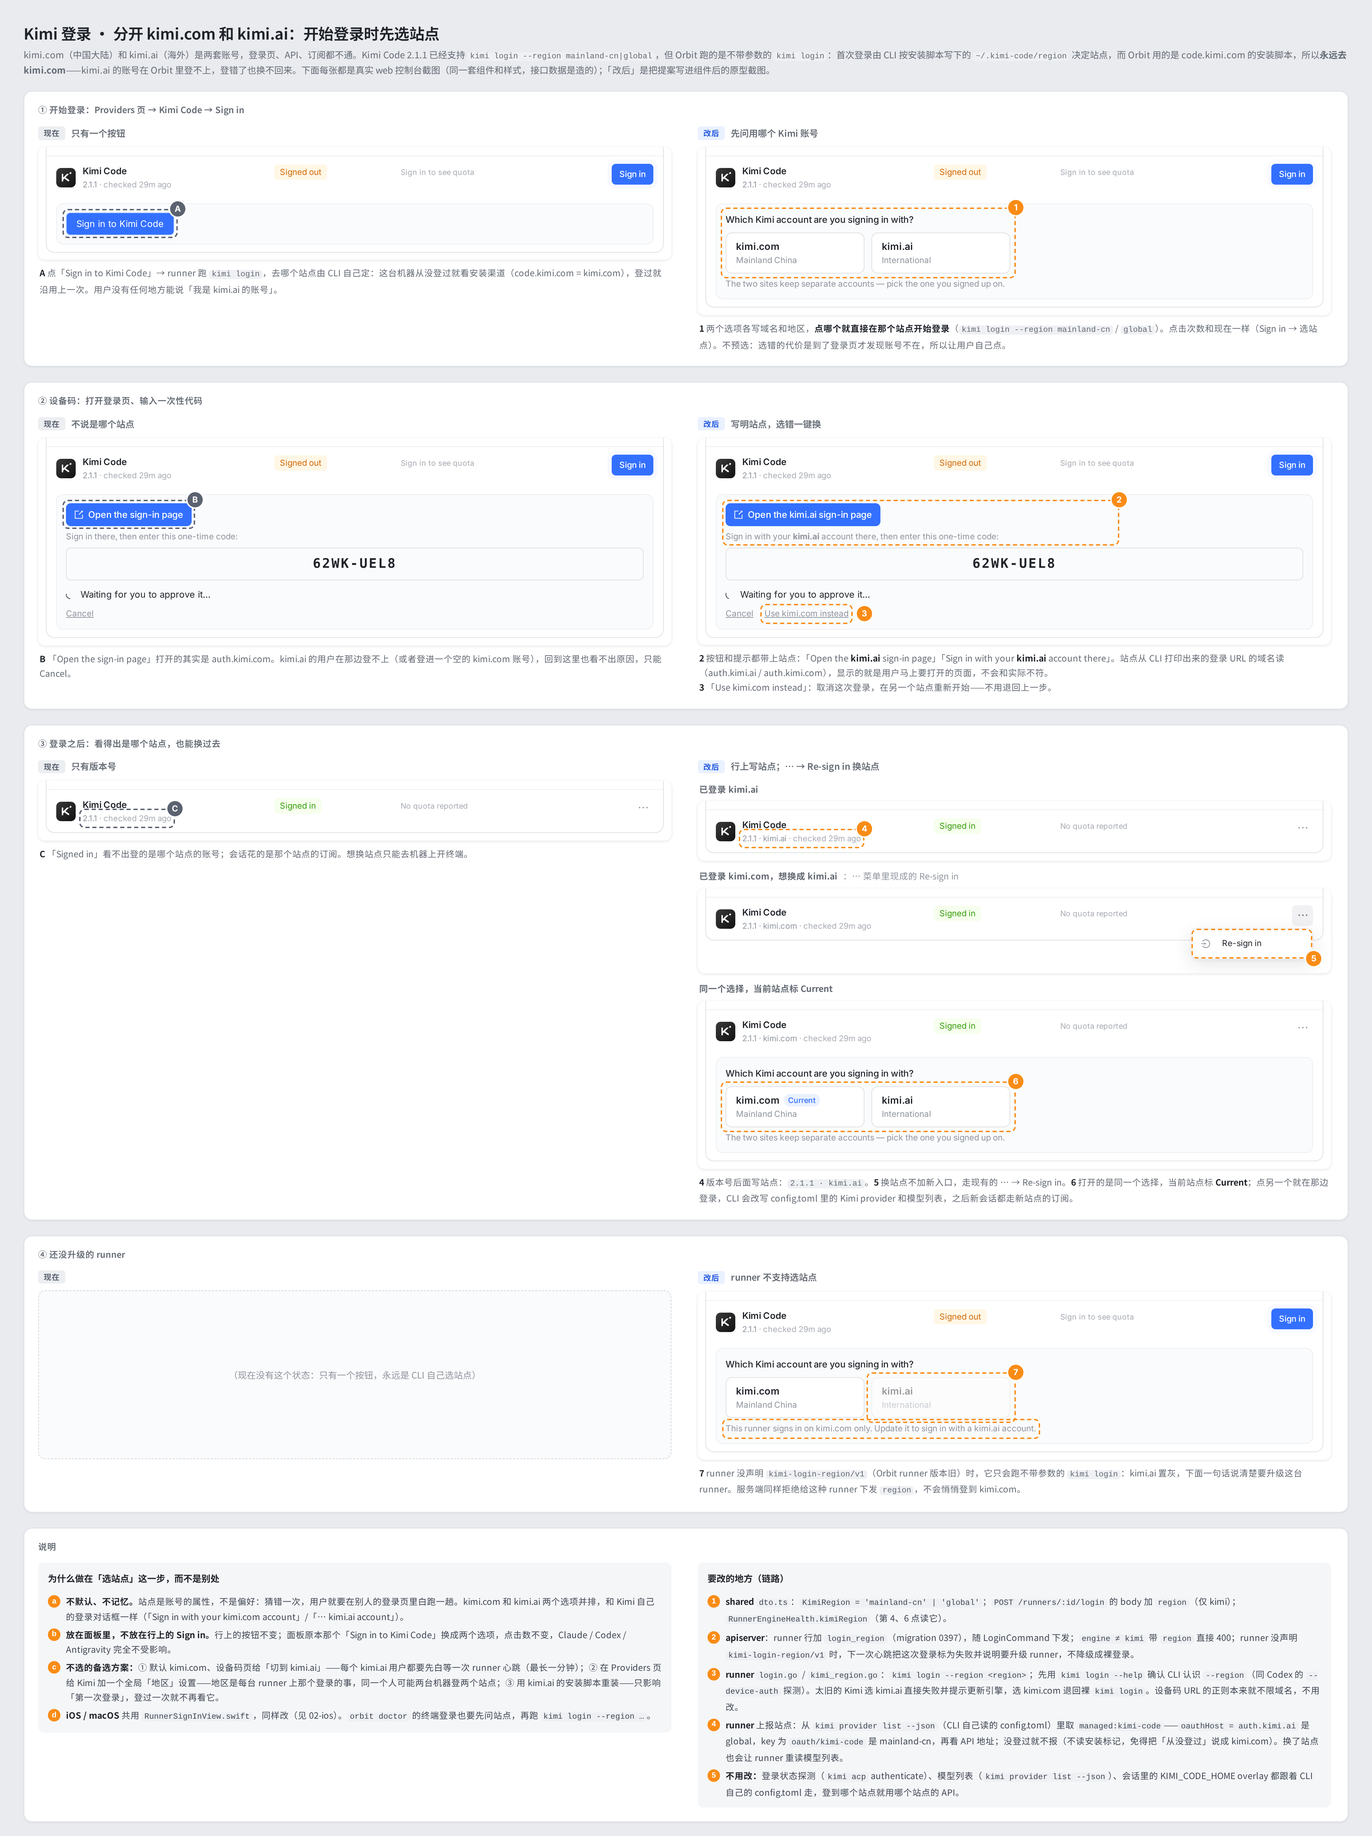
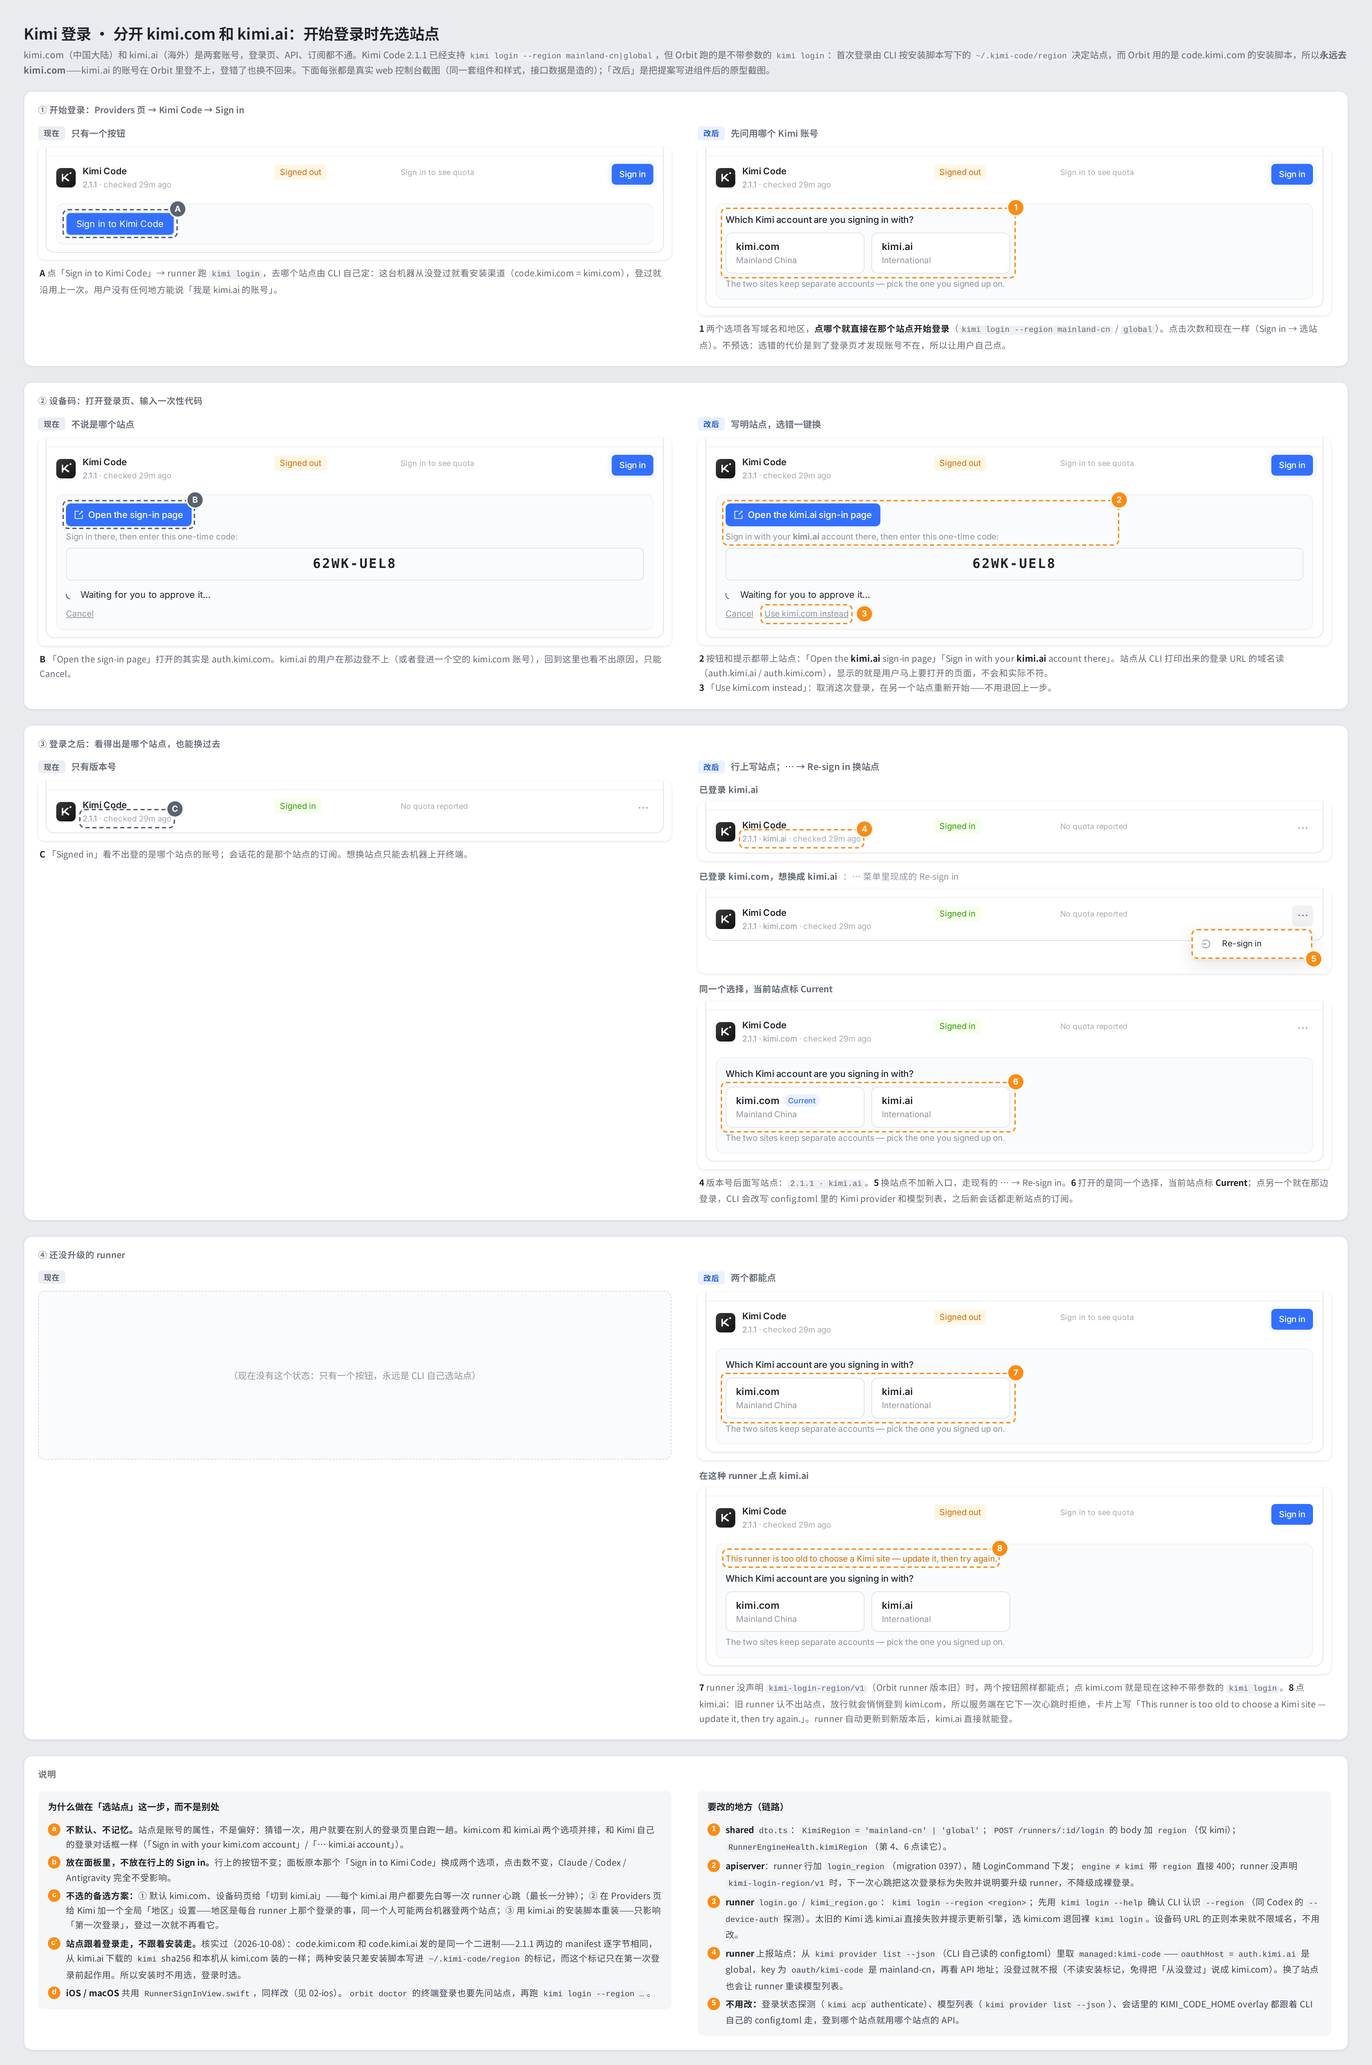
Update 01-web.html and 13 more files

diff --git a/docs/mocks/kimi-login-region/01-web.html b/docs/mocks/kimi-login-region/01-web.html
@@ -127,13 +127,17 @@
         <div class="none zh">（现在没有这个状态：只有一个按钮，永远是 CLI 自己选站点）</div>
       </div>
       <div>
-        <div class="lbl zh"><span class="m-k new">改后</span>runner 不支持选站点</div>
+        <div class="lbl zh"><span class="m-k new">改后</span>两个都能点</div>
         <div class="shot">
           <img src="01i-old-runner.png" alt="">
-          <span class="ring" style="left:243px;top:116px;width:215px;height:73px"></span><span class="n" style="left:447px;top:105px">7</span>
-          <span class="ring" style="left:35px;top:183px;width:458px;height:29px"></span>
+          <span class="ring" style="left:33px;top:116px;width:425px;height:73px"></span><span class="n" style="left:447px;top:105px">7</span>
         </div>
-        <p class="m-cap zh"><b>7</b> runner 没声明 <code>kimi-login-region/v1</code>（Orbit runner 版本旧）时，它只会跑不带参数的 <code>kimi login</code>：kimi.ai 置灰，下面一句话说清楚要升级这台 runner。服务端同样拒绝给这种 runner 下发 <code>region</code>，不会悄悄登到 kimi.com。</p>
+        <div class="step zh"><b>在这种 runner 上点 kimi.ai</b></div>
+        <div class="shot">
+          <img src="01j-old-runner-kimi-ai.png" alt="">
+          <span class="ring" style="left:35px;top:88px;width:400px;height:28px"></span><span class="n" style="left:424px;top:77px">8</span>
+        </div>
+        <p class="m-cap zh"><b>7</b> runner 没声明 <code>kimi-login-region/v1</code>（Orbit runner 版本旧）时，两个按钮照样都能点；点 kimi.com 就是现在这种不带参数的 <code>kimi login</code>。<b>8</b> 点 kimi.ai：旧 runner 认不出站点，放行就会悄悄登到 kimi.com，所以服务端在它下一次心跳时拒绝，卡片上写「This runner is too old to choose a Kimi site — update it, then try again.」。runner 自动更新到新版本后，kimi.ai 直接就能登。</p>
       </div>
     </div>
   </div>
@@ -146,6 +150,7 @@
         <li><span class="m-n">a</span><span><b>不默认、不记忆。</b>站点是账号的属性，不是偏好：猜错一次，用户就要在别人的登录页里白跑一趟。kimi.com 和 kimi.ai 两个选项并排，和 Kimi 自己的登录对话框一样（「Sign in with your kimi.com account」/「… kimi.ai account」）。</span></li>
         <li><span class="m-n">b</span><span><b>放在面板里，不放在行上的 Sign in。</b>行上的按钮不变；面板原本那个「Sign in to Kimi Code」换成两个选项，点击数不变，Claude / Codex / Antigravity 完全不受影响。</span></li>
         <li><span class="m-n">c</span><span><b>不选的备选方案：</b>① 默认 kimi.com、设备码页给「切到 kimi.ai」——每个 kimi.ai 用户都要先白等一次 runner 心跳（最长一分钟）；② 在 Providers 页给 Kimi 加一个全局「地区」设置——地区是每台 runner 上那个登录的事，同一个人可能两台机器登两个站点；③ 用 kimi.ai 的安装脚本重装——只影响「第一次登录」，登过一次就不再看它。</span></li>
+        <li><span class="m-n">c′</span><span><b>站点跟着登录走，不跟着安装走。</b>核实过（2026-10-08）：code.kimi.com 和 code.kimi.ai 发的是同一个二进制——2.1.1 两边的 manifest 逐字节相同，从 kimi.ai 下载的 <code>kimi</code> sha256 和本机从 kimi.com 装的一样；两种安装只差安装脚本写进 <code>~/.kimi-code/region</code> 的标记，而这个标记只在第一次登录前起作用。所以安装时不用选，登录时选。</span></li>
         <li><span class="m-n">d</span><span><b>iOS / macOS</b> 共用 <code>RunnerSignInView.swift</code>，同样改（见 02-ios）。<code>orbit doctor</code> 的终端登录也要先问站点，再跑 <code>kimi login --region …</code>。</span></li>
       </ul>
       <ul class="m-notes zh">

diff --git a/src/web/src/components/RunnerSignIn.tsx b/src/web/src/components/RunnerSignIn.tsx
@@ -164,6 +164,10 @@ export function RunnerSignIn({
   });
   const choosesSite = !!kimiRunner.data?.capabilities?.includes(KIMI_LOGIN_REGION_V1);
   const currentSite = kimiRunner.data?.engines?.find((e) => e.engine === 'kimi')?.kimiRegion;
+  // Both sites can always be pressed. A runner too old to be told a site signs in where its CLI
+  // decides — kimi.com, on an install Orbit made — so kimi.com goes to it unnamed; kimi.ai is named
+  // either way, and such a runner is refused it in words that say to update it (RunnerApiController).
+  const kimiSiteToName = (region: KimiRegion) => (choosesSite || region === 'global' ? region : undefined);
   const [code, setCode] = useState('');
   // Set once a pasted code is on its way to the runner — see `verifying` below.
   const [sent, setSent] = useState(false);
@@ -434,10 +438,10 @@ export function RunnerSignIn({
         </div>
         {/* The wrong site is the one mistake the user can't see until they are on its page: their
             account isn't there. Starting over on the other one is a single press. */}
-        {site && choosesSite ? (
+        {site ? (
           <div className="rsi-links">
             {cancelLink}
-            <button className="rsi-link" onClick={() => begin(other)} type="button">
+            <button className="rsi-link" onClick={() => begin(kimiSiteToName(other))} type="button">
               Use {KIMI_SITE[other].domain} instead
             </button>
           </div>
@@ -509,10 +513,8 @@ export function RunnerSignIn({
               key={region}
               className="rsi-site"
               type="button"
-              disabled={start.isPending || kimiRunner.isPending || (region === 'global' && !choosesSite)}
-              // A runner that can't be told a site signs in where its CLI decides — kimi.com, on an
-              // install Orbit made — so that press names none rather than be refused for naming one.
-              onClick={() => begin(choosesSite ? region : undefined)}
+              disabled={start.isPending || kimiRunner.isPending}
+              onClick={() => begin(kimiSiteToName(region))}
             >
               <span className="rsi-site-name">
                 {KIMI_SITE[region].domain}
@@ -532,11 +534,7 @@ export function RunnerSignIn({
             </button>
           )}
         </div>
-        <div className="rsi-hint">
-          {kimiRunner.data && !choosesSite
-            ? 'This runner signs in on kimi.com only. Update it to sign in with a kimi.ai account.'
-            : 'The two sites keep separate accounts — pick the one you signed up on.'}
-        </div>
+        <div className="rsi-hint">The two sites keep separate accounts — pick the one you signed up on.</div>
         {onUseApiKey && (
           <div className="rsi-hint">
             Signing in fixes this runner. A key is account-wide — switch to its model to use it.

diff --git a/src/macos/OrbitApp/Sources/OrbitApp/Views/RunnerSignInView.swift b/src/macos/OrbitApp/Sources/OrbitApp/Views/RunnerSignInView.swift
@@ -155,8 +155,8 @@ struct RunnerSignInView: View {
             // account isn't there. Starting over on the other one is a single press.
             HStack(spacing: 16) {
                 cancelButton(model)
-                if let site, model.choosesSite {
-                    Button(site.other.useInstead) { Task { await model.begin(site: site.other) } }
+                if let site {
+                    Button(site.other.useInstead) { Task { await model.begin(site: KimiSite.named(site.other, on: model.runner)) } }
                         .buttonStyle(.borderless)
                         .font(.orbitLabel)
                         .disabled(model.busy)
@@ -189,9 +189,7 @@ struct RunnerSignInView: View {
             Text(KimiSite.question).font(.orbitLabel)
             ForEach(KimiSite.allCases) { site in
                 Button {
-                    // A runner that can't be told a site signs in where its CLI decides — kimi.com, on
-                    // an install Orbit made — so that press names none rather than be refused for it.
-                    Task { await model.begin(site: model.choosesSite ? site : nil) }
+                    Task { await model.begin(site: KimiSite.named(site, on: model.runner)) }
                 } label: {
                     HStack(alignment: .firstTextBaseline, spacing: 8) {
                         VStack(alignment: .leading, spacing: 1) {
@@ -211,9 +209,9 @@ struct RunnerSignInView: View {
                     .frame(maxWidth: .infinity, alignment: .leading)
                 }
                 .buttonStyle(.bordered)
-                .disabled(model.busy || !model.runnerRead || (site == .global && !model.choosesSite))
+                .disabled(model.busy || !model.runnerRead)
             }
-            Text(model.runner != nil && !model.choosesSite ? KimiSite.olderRunner : KimiSite.separateAccounts)
+            Text(KimiSite.separateAccounts)
                 .font(.orbitLabel)
                 .foregroundStyle(.secondary)
         }

diff --git a/src/macos/OrbitKit/Sources/OrbitKit/App/KimiSite.swift b/src/macos/OrbitKit/Sources/OrbitKit/App/KimiSite.swift
@@ -41,10 +41,17 @@ public enum KimiSite: String, CaseIterable, Sendable, Identifiable {
     /// `KIMI_LOGIN_REGION_V1`). One that doesn't runs a bare `kimi login`.
     public static let loginRegionCapability = "kimi-login-region/v1"
 
-    /// Whether `runner` can be told the site. One that can't signs in where its CLI decides — kimi.com,
-    /// on an install Orbit made — so a sign-in there names no site, and kimi.ai is out of reach.
+    /// Whether `runner` can be told the site (`named`).
     public static func choosable(on runner: Runner?) -> Bool {
         runner?.capabilities?.contains(loginRegionCapability) == true
+    }
+
+    /// What a press on `site` names to `runner`. Both sites can always be pressed: kimi.ai is named
+    /// always, kimi.com only where the runner can be told a site. One too old to be told signs in where
+    /// its CLI decides — kimi.com, on an install Orbit made — so kimi.com goes to it unnamed, and it is
+    /// refused kimi.ai in words that say to update it (web RunnerSignIn `kimiSiteToName`).
+    public static func named(_ site: KimiSite, on runner: Runner?) -> KimiSite? {
+        choosable(on: runner) || site == .global ? site : nil
     }
 
     /// The site `runner`'s Kimi login is on, as its probe last reported.
@@ -62,7 +69,6 @@ public enum KimiSite: String, CaseIterable, Sendable, Identifiable {
 
     public static let question = "Which Kimi account are you signing in with?"
     public static let separateAccounts = "The two sites keep separate accounts — pick the one you signed up on."
-    public static let olderRunner = "This runner signs in on kimi.com only. Update it to sign in with a kimi.ai account."
     public static let currentMark = "Current"
     public var openPage: String { "Open the \(domain) sign-in page" }
     public var enterCode: String { "Sign in with your \(domain) account there, then enter this one-time code:" }

diff --git a/src/macos/OrbitKit/Tests/OrbitKitTests/KimiSiteTests.swift b/src/macos/OrbitKit/Tests/OrbitKitTests/KimiSiteTests.swift
@@ -43,6 +43,19 @@ final class KimiSiteTests: XCTestCase {
         XCTAssertFalse(KimiSite.choosable(on: nil))
     }
 
+    /// Both sites can always be pressed. On a runner that can be told a site, each press names its own;
+    /// on one too old to be told, kimi.com goes unnamed (its CLI's own site) and kimi.ai is still named,
+    /// for the control plane to refuse in words that say to update the runner.
+    func testAPressNamesItsSiteWhereTheRunnerCanBeToldIt() throws {
+        let current = try runner(capabilities: ["kimi-login-region/v1"])
+        XCTAssertEqual(KimiSite.named(.mainlandCN, on: current), .mainlandCN)
+        XCTAssertEqual(KimiSite.named(.global, on: current), .global)
+        for older in [try runner(capabilities: ["session-worktree-ops-v1"]), nil] {
+            XCTAssertNil(KimiSite.named(.mainlandCN, on: older))
+            XCTAssertEqual(KimiSite.named(.global, on: older), .global)
+        }
+    }
+
     func testTheRunnersLoginSiteIsTheOneItsProbeReported() throws {
         XCTAssertEqual(KimiSite.current(on: try runner(capabilities: [], kimiRegion: "global")), .global)
         XCTAssertEqual(KimiSite.current(on: try runner(capabilities: [], kimiRegion: "mainland-cn")), .mainlandCN)
@@ -85,7 +98,6 @@ final class KimiSiteTests: XCTestCase {
         for literal in [
             KimiSite.question,
             KimiSite.separateAccounts,
-            KimiSite.olderRunner,
             ">\(KimiSite.currentMark)<",
             "'mainland-cn': { domain: '\(KimiSite.mainlandCN.domain)', where: '\(KimiSite.mainlandCN.place)' }",
             "global: { domain: '\(KimiSite.global.domain)', where: '\(KimiSite.global.place)' }",

diff --git a/src/web/src/components/RunnerSignIn.test.tsx b/src/web/src/components/RunnerSignIn.test.tsx
@@ -302,10 +302,12 @@ describe('RunnerSignIn for Kimi', () => {
     ]);
   });
 
-  it('offers kimi.ai only on a runner that can be told the site', () => {
+  it('offers both sites on every runner, one too old to be told the site included', () => {
+    // Such a runner is refused kimi.ai at its next heartbeat, in words that say to update it: the
+    // choice itself is never taken away.
     const html = kimi(loginState({}), runner({ capabilities: ['session-worktree-ops-v1'] }));
-    expect(sites(html)).toEqual(['kimi.com · Mainland China', 'kimi.ai · International (disabled)']);
-    expect(html).toContain('This runner signs in on kimi.com only. Update it to sign in with a kimi.ai account.');
+    expect(sites(html)).toEqual(['kimi.com · Mainland China', 'kimi.ai · International']);
+    expect(html).toContain('The two sites keep separate accounts — pick the one you signed up on.');
   });
 
   it('says why the last attempt failed above the choice', () => {
@@ -327,10 +329,10 @@ describe('RunnerSignIn for Kimi', () => {
     expect(com).toContain('Use kimi.ai instead');
   });
 
-  it('offers no other site where the runner could not be told it', () => {
+  it('offers the other site on a runner too old to be told it as well', () => {
     const html = kimi(device('https://www.kimi.com/code/authorize_device?user_code=7K06-QP86'), runner({ capabilities: [] }));
     expect(html).toContain('Open the kimi.com sign-in page');
-    expect(html).not.toContain('instead');
+    expect(html).toContain('Use kimi.ai instead');
     expect(html).toContain('Cancel');
   });
 

diff --git a/src/web/src/components/RunnerEngines.kimiSite.test.tsx b/src/web/src/components/RunnerEngines.kimiSite.test.tsx
@@ -126,14 +126,19 @@ describe('signing Kimi in from its row', () => {
     expect(loginPosts()).toEqual([{ engine: 'kimi', region }]);
   });
 
-  it('names no site on a runner that cannot be told one, and keeps kimi.ai out of reach', async () => {
+  // A runner too old to be told a site: both can still be pressed. kimi.com is the bare `kimi login`
+  // it always was — a site in the body would only get it refused — and kimi.ai is named, which the
+  // control plane refuses for such a runner in words that say to update it.
+  it.each([
+    ['kimi.com', { engine: 'kimi' }],
+    ['kimi.ai', { engine: 'kimi', region: 'global' }],
+  ] as const)('lets %s be pressed on a runner too old to be told the site', async (domain, body) => {
     const page = mount(runner({}, { capabilities: ['session-worktree-ops-v1'] }));
     await click(button(kimiRow(page), 'Sign in'));
-    expect(site(kimiRow(page), 'kimi.ai').disabled).toBe(true);
-    // A bare `kimi login`, as before the choice: a site in the body would be refused at the runner's
-    // next heartbeat instead of signing in.
-    await click(site(kimiRow(page), 'kimi.com'));
-    expect(loginPosts()).toEqual([{ engine: 'kimi' }]);
+    expect(site(kimiRow(page), 'kimi.com').disabled).toBe(false);
+    expect(site(kimiRow(page), 'kimi.ai').disabled).toBe(false);
+    await click(site(kimiRow(page), domain));
+    expect(loginPosts()).toEqual([body]);
   });
 
   it("says on the row which site the login is on, and marks it when signing in again", async () => {

diff --git a/docs/mocks/kimi-login-region/02-ios.html b/docs/mocks/kimi-login-region/02-ios.html
@@ -70,7 +70,7 @@
         <li><span class="m-n">b</span><span><b>RunnerSignInModel.begin(region:)</b> 把站点带进 <code>POST /runners/:id/login</code>；设备码状态里的站点从 <code>model.url</code> 的域名读，和 web 同一条规则。</span></li>
       </ul>
       <ul class="m-notes zh">
-        <li><span class="m-n">c</span><span><b>旧 runner</b>（没声明 <code>kimi-login-region/v1</code>）：kimi.ai 按钮 disabled，说明换成「This runner signs in on kimi.com only. Update it to sign in with a kimi.ai account.」——和 web 第 7 点一样。</span></li>
+        <li><span class="m-n">c</span><span><b>旧 runner</b>（没声明 <code>kimi-login-region/v1</code>）：两个按钮照样都能点；kimi.com 是不带参数的登录，kimi.ai 会被服务端拒绝并提示先更新 runner——和 web 第 7、8 点一样（<code>KimiSite.named</code>）。</span></li>
         <li><span class="m-n">d</span><span>Android 没有 runner 登录卡，不涉及。</span></li>
       </ul>
     </div>

diff --git a/src/macos/OrbitApp/Sources/OrbitApp/RunnerSignInModel.swift b/src/macos/OrbitApp/Sources/OrbitApp/RunnerSignInModel.swift
@@ -114,8 +114,6 @@ final class RunnerSignInModel {
     /// The runner's own last word — a rejected code, or why an attempt failed.
     var relayMessage: String? { mine ? relay?.message : nil }
 
-    /// Kimi: whether this runner signs in on the site a start names.
-    var choosesSite: Bool { KimiSite.choosable(on: runner) }
     /// Kimi: the site the runner's login is on now, marked on the choice.
     var currentSite: KimiSite? { KimiSite.current(on: runner) }
     /// Kimi: the site of the page the one-time code is for, read off its address.
